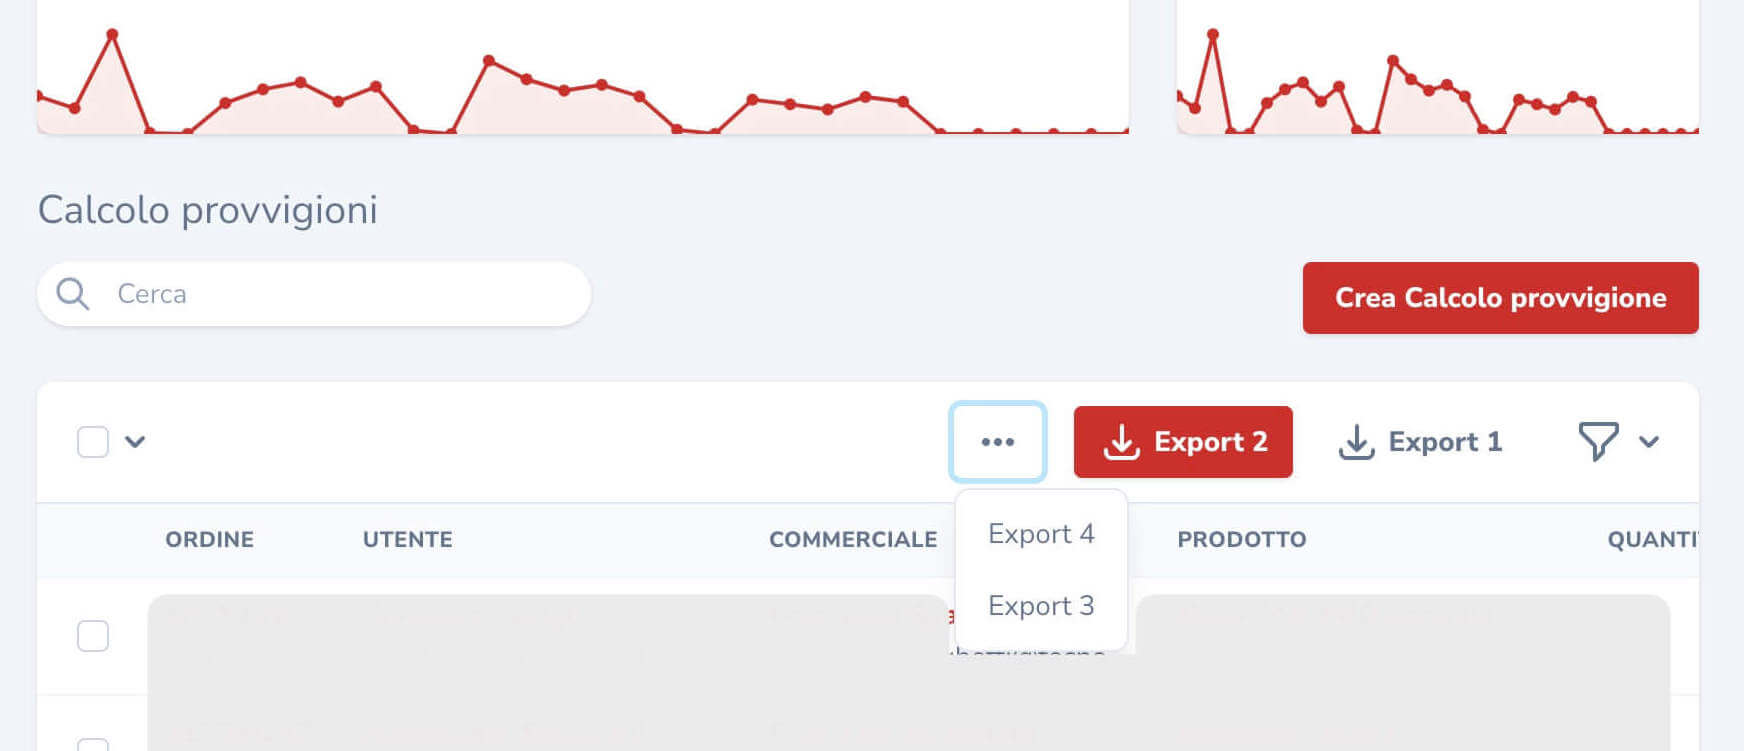
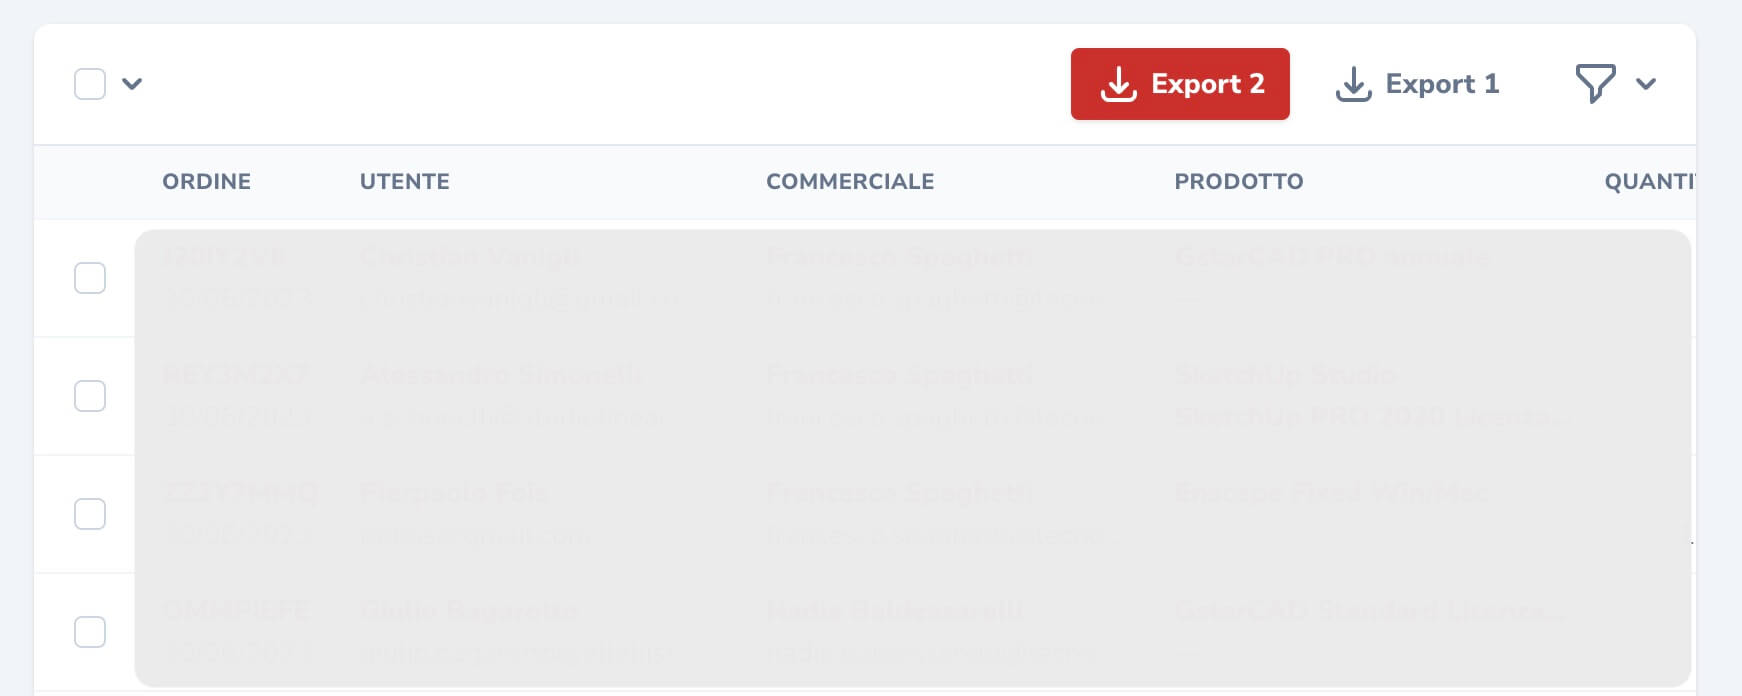
version 1

diff --git a/README.md b/README.md
@@ -161,11 +161,11 @@ By default, the component will show the first 3 buttons and put the rest into a 
 public static function additionalInformation(Request $request)
 {
     return [
-        'visibleActionsLimit' => 4
+        'visibleActionsLimit' => 2
     ];
 }
 ```
-
+![invisible actions](branding/invisible_actions.jpg)
 
 ### Customizing Button Classes
 
